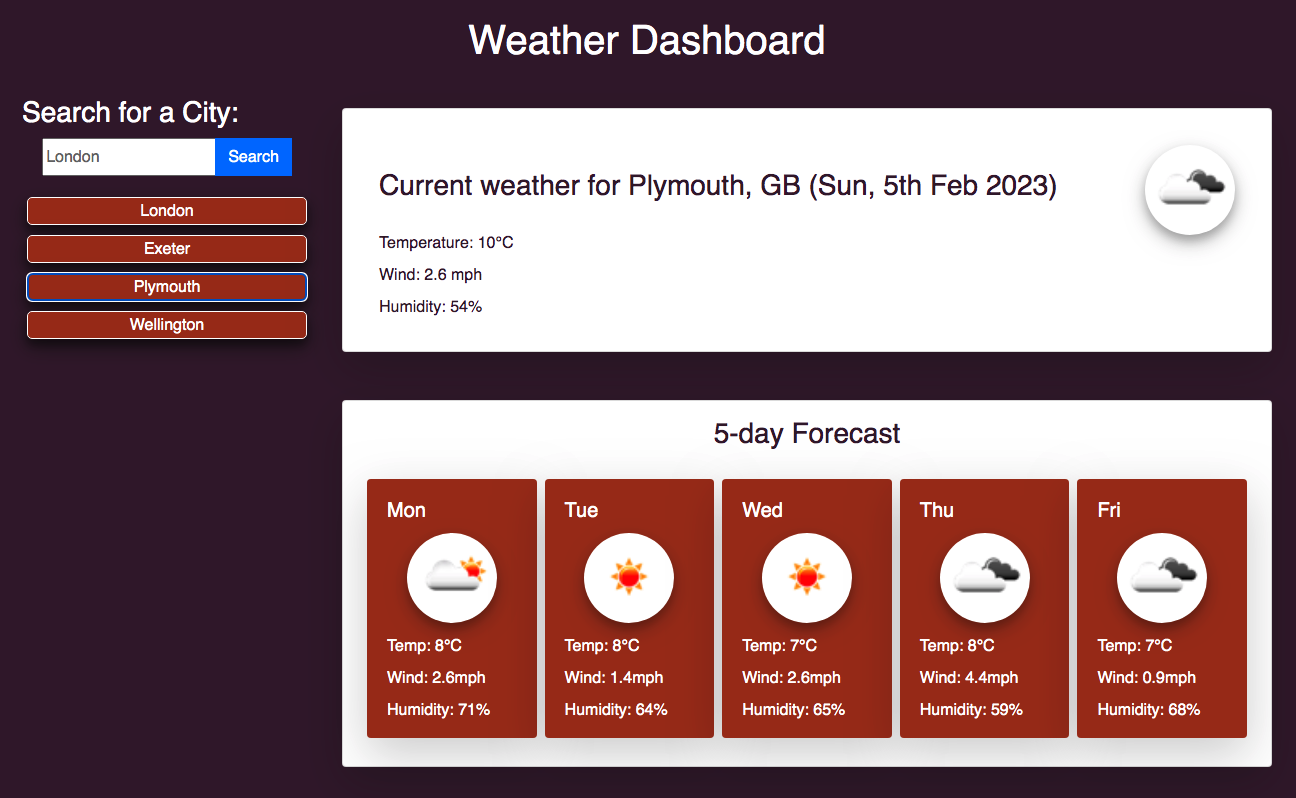
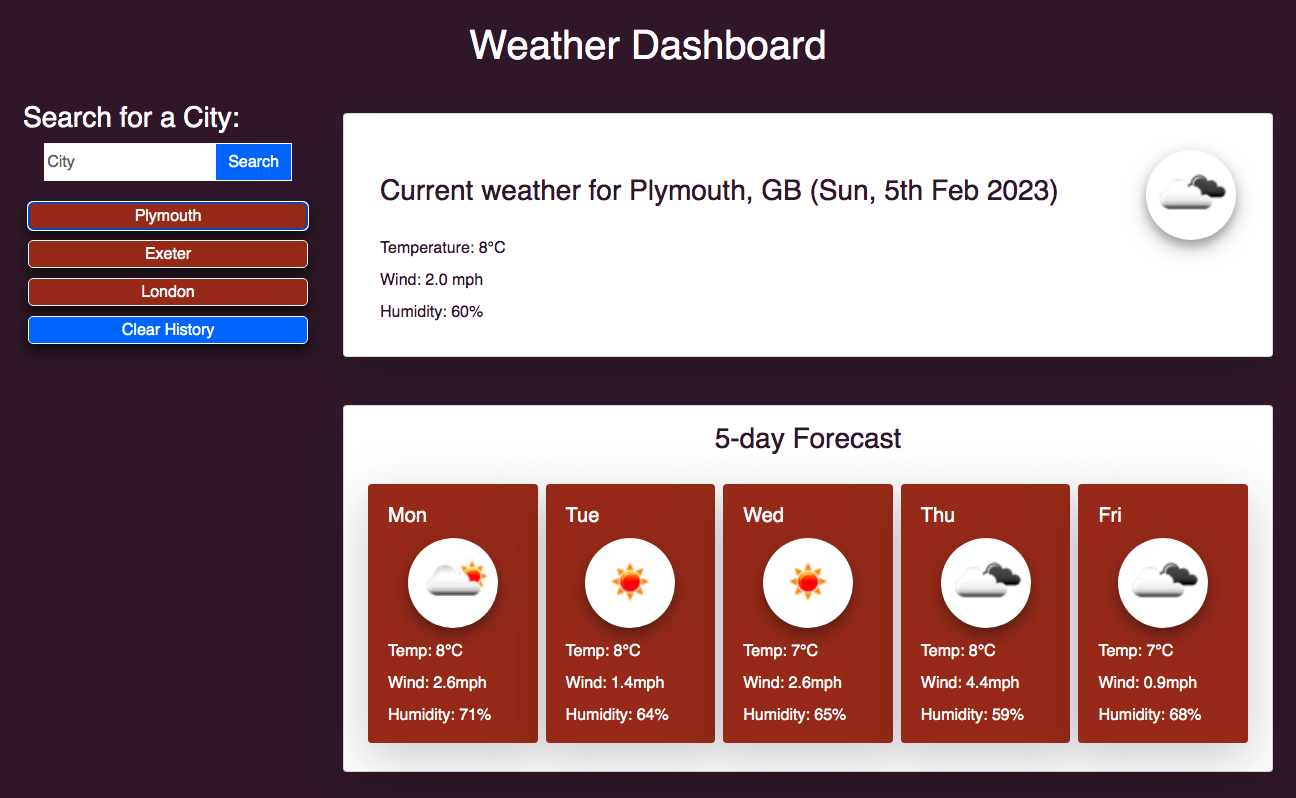
Minor adjustments to search input and button style borders. Updated screenshot.

diff --git a/index.html b/index.html
@@ -35,7 +35,7 @@
                   class="form-input weather-search"
                   type="text"
                   id="search-input"
-                  placeholder="London"
+                  placeholder="City"
                   aria-labelledby="form-heading"
                   aria-controls="today forecast"
                 />

diff --git a/assets/css/style.css b/assets/css/style.css
@@ -39,6 +39,16 @@ header {
   justify-content: center;
 }
 
+#search-button,
+#search-input {
+  border: 1px solid white;
+}
+
+#search-button:hover {
+  transform: scale(1.05);
+  transform-origin: left;
+}
+
 #today,
 #forecast {
   width: 100%;
